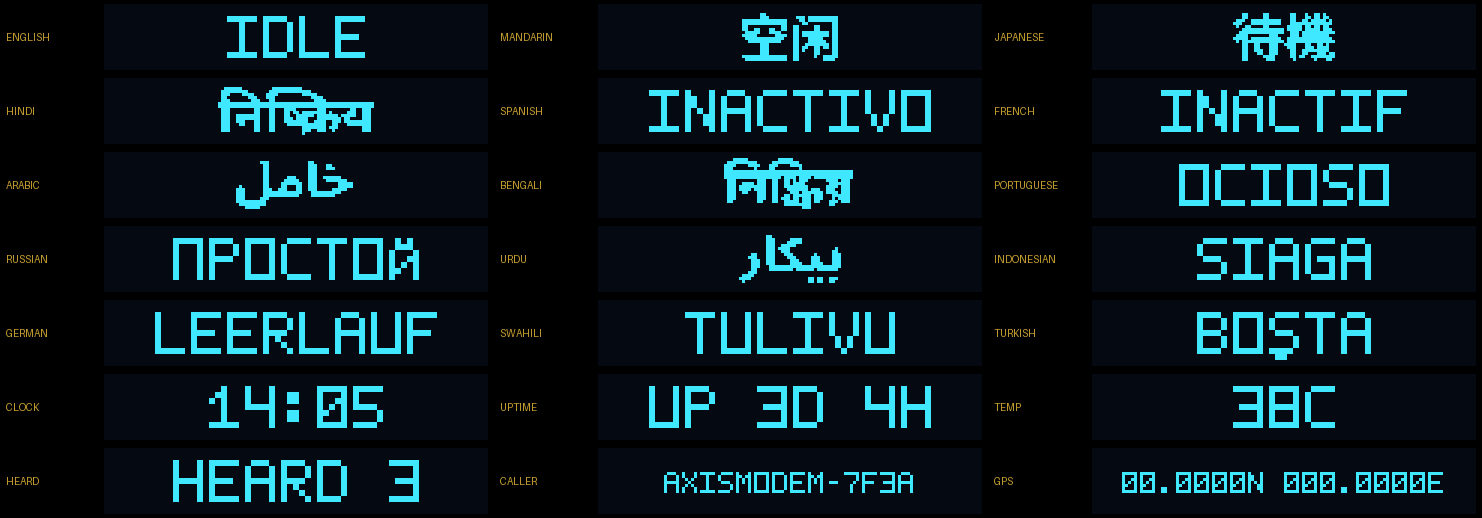
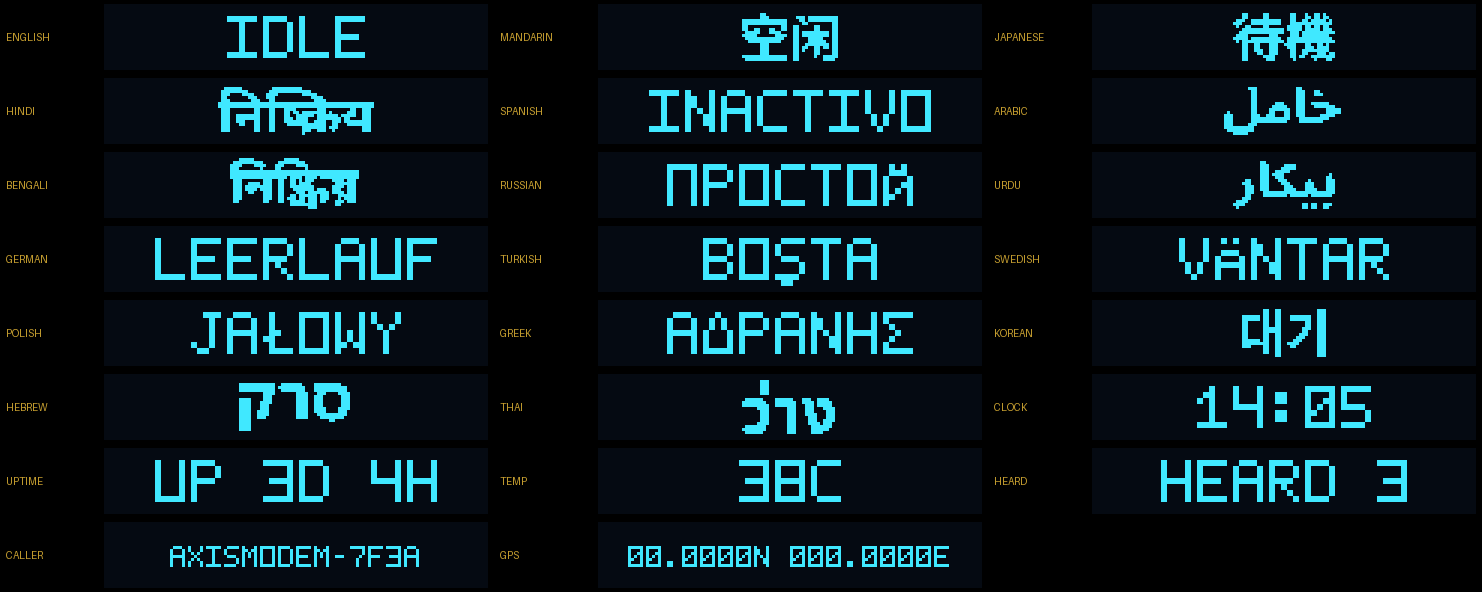
feat(firmware): idle show language set per Rev

diff --git a/firmware/src/idle_words.h b/firmware/src/idle_words.h
@@ -2,7 +2,8 @@
  *
  * 1-bit bitmaps of the complex script idle words, rendered on the PC with Pillow
  * and libraqm (shaped: conjuncts, joining, right to left) from Noto Sans SC,
- * Noto Sans JP, Noto Sans Devanagari, Noto Sans Bengali and Noto Sans Arabic
+ * Noto Sans JP, Noto Sans KR, Noto Sans Devanagari, Noto Sans Bengali, Noto Sans
+ * Arabic, Noto Sans Hebrew and Noto Sans Thai
  * (bold, wght 700). The fonts are under the SIL Open Font License 1.1; only these
  * rendered glyph bitmaps are in the firmware, the font files are not.
  *
@@ -67,6 +68,28 @@ static const uint32_t IDLE_BMP_UR_COLS[34] = {
     0x0CF80, 0x007C0, 0x0CF80, 0x0CE00, 0x00C00, 0x00C00, 0x0CC00, 0x0CFE0,
     0x04FF0, 0x007C0,
 };
+/* Korean, 28 x 16 */
+static const uint32_t IDLE_BMP_KO_COLS[28] = {
+    0x01FFC, 0x01FFC, 0x01C0C, 0x00C0C, 0x00C0C, 0x00C0C, 0x00800, 0x07FFF,
+    0x07FFF, 0x000C0, 0x000C0, 0x0FFFF, 0x0FFFF, 0x00000, 0x00000, 0x00800,
+    0x0180C, 0x01C0C, 0x00E0C, 0x0070C, 0x003CC, 0x001FC, 0x0007C, 0x00000,
+    0x00000, 0x0FFFF, 0x0FFFF, 0x0FFFF,
+};
+/* Hebrew, 37 x 16 */
+static const uint32_t IDLE_BMP_HE_COLS[37] = {
+    0x0FFE7, 0x0FFE7, 0x0FFE7, 0x0FFE7, 0x00007, 0x00007, 0x00E07, 0x00FC7,
+    0x00FFF, 0x007FF, 0x0007F, 0x0000F, 0x00000, 0x00002, 0x00007, 0x00007,
+    0x00007, 0x00007, 0x00007, 0x00FFF, 0x00FFF, 0x00FFE, 0x00FF8, 0x00000,
+    0x00000, 0x003F7, 0x007FF, 0x00FFF, 0x00F0F, 0x00C07, 0x01C07, 0x01C07,
+    0x00C07, 0x00F0F, 0x00FFE, 0x007FE, 0x001F8,
+};
+/* Thai, 31 x 18 */
+static const uint32_t IDLE_BMP_TH_COLS[31] = {
+    0x10180, 0x381C0, 0x381C0, 0x381C0, 0x381C0, 0x3C3C0, 0x3FFDF, 0x1FF9F,
+    0x07F1F, 0x00000, 0x00000, 0x001C0, 0x001C0, 0x001C0, 0x001C0, 0x3FFC0,
+    0x3FFC0, 0x3FF80, 0x00000, 0x00000, 0x000C0, 0x00FC0, 0x07FC0, 0x3FF80,
+    0x3F800, 0x3C1C0, 0x381C0, 0x1E3C0, 0x1FFC0, 0x0FF80, 0x03E00,
+};
 
 static const idle_bmp_t IDLE_BMP_ZH = {32, 16, 0, IDLE_BMP_ZH_COLS};
 static const idle_bmp_t IDLE_BMP_JA = {34, 16, 0, IDLE_BMP_JA_COLS};
@@ -74,5 +97,8 @@ static const idle_bmp_t IDLE_BMP_HI = {52, 16, 0, IDLE_BMP_HI_COLS};
 static const idle_bmp_t IDLE_BMP_BN = {43, 17, 0, IDLE_BMP_BN_COLS};
 static const idle_bmp_t IDLE_BMP_AR = {39, 16, 1, IDLE_BMP_AR_COLS};
 static const idle_bmp_t IDLE_BMP_UR = {34, 16, 1, IDLE_BMP_UR_COLS};
+static const idle_bmp_t IDLE_BMP_KO = {28, 16, 0, IDLE_BMP_KO_COLS};
+static const idle_bmp_t IDLE_BMP_HE = {37, 16, 1, IDLE_BMP_HE_COLS};
+static const idle_bmp_t IDLE_BMP_TH = {31, 18, 0, IDLE_BMP_TH_COLS};
 
 #endif

diff --git a/firmware/src/font5x7.h b/firmware/src/font5x7.h
@@ -111,8 +111,8 @@ static const uint8_t font5x7[(FONT_LAST - FONT_FIRST + 1) * 5] = {
 
 /* A few letters beyond ASCII for the idle show words, drawn here in the same face.
  * Same column format; bit 7 is one row below the baseline (the cedilla). Cyrillic
- * Р О С Т share their shape with Latin P O C T. Text that needs a code point not in
- * either table draws '?'. */
+ * Р О С Т and Greek Α Ρ Ν Η share their shape with Latin P O C T and A P N H.
+ * Text that needs a code point not in either table draws '?'. */
 typedef struct {
     uint16_t cp; /* Unicode code point */
     uint8_t col[5];
@@ -126,6 +126,14 @@ static const font5x7_ext_t font5x7_ext[] = {
     {0x0422, {0x01, 0x01, 0x7F, 0x01, 0x01}}, /* Cyrillic TE */
     {0x0419, {0x7C, 0x23, 0x12, 0x0B, 0x7C}}, /* Cyrillic SHORT I: cup breve over a short I */
     {0x015E, {0x46, 0xC9, 0xC9, 0x49, 0x31}}, /* Turkish S with cedilla */
+    {0x00C4, {0x78, 0x15, 0x14, 0x15, 0x78}}, /* A with diaeresis (Swedish): dots over a short A */
+    {0x0141, {0x10, 0x7F, 0x48, 0x40, 0x40}}, /* Polish L with stroke */
+    {0x0391, {0x7E, 0x09, 0x09, 0x09, 0x7E}}, /* Greek ALPHA (as A) */
+    {0x0394, {0x78, 0x46, 0x41, 0x46, 0x78}}, /* Greek DELTA */
+    {0x03A1, {0x7F, 0x09, 0x09, 0x09, 0x06}}, /* Greek RHO (as P) */
+    {0x039D, {0x7F, 0x06, 0x08, 0x30, 0x7F}}, /* Greek NU (as N) */
+    {0x0397, {0x7F, 0x08, 0x08, 0x08, 0x7F}}, /* Greek ETA (as H) */
+    {0x03A3, {0x63, 0x55, 0x49, 0x41, 0x41}}, /* Greek SIGMA */
 };
 #define FONT_EXT_N ((int)(sizeof(font5x7_ext) / sizeof(font5x7_ext[0])))
 

diff --git a/firmware/src/idle_show.c b/firmware/src/idle_show.c
@@ -13,7 +13,7 @@
  * neighbour, so no item shows twice in a row. The transition is hash(n) % 12.
  *
  * Band. Items are drawn into an 18 row mask, rows 0..17 = y 12..29: 2x text at y 14..27
- * (Ş's cedilla to y 29), 1x text at y 18..24, the script bitmaps (16 or 17 rows) centred
+ * (Ş's cedilla to y 29), 1x text at y 18..24, the script bitmaps (16 to 18 rows) centred
  * on y 21. Each column of the mask is a uint32_t, bit 0 = y 12. */
 #include <stdio.h>
 #include <string.h>
@@ -54,16 +54,18 @@ static const item_def_t ITEMS[IS_ITEMS] = {
     {"JAPANESE", 1, NULL, &IDLE_BMP_JA},
     {"HINDI", 1, NULL, &IDLE_BMP_HI},
     {"SPANISH", 1, "INACTIVO", NULL},
-    {"FRENCH", 1, "INACTIF", NULL},
     {"ARABIC", 1, NULL, &IDLE_BMP_AR},
     {"BENGALI", 1, NULL, &IDLE_BMP_BN},
-    {"PORTUGUESE", 1, "OCIOSO", NULL},
     {"RUSSIAN", 1, "\xD0\x9F\xD0\xA0\xD0\x9E\xD0\xA1\xD0\xA2\xD0\x9E\xD0\x99", NULL}, /* ПРОСТОЙ */
     {"URDU", 1, NULL, &IDLE_BMP_UR},
-    {"INDONESIAN", 1, "SIAGA", NULL},
     {"GERMAN", 1, "LEERLAUF", NULL},
-    {"SWAHILI", 1, "TULIVU", NULL},
     {"TURKISH", 1, "BO\xC5\x9E" "TA", NULL}, /* BOŞTA */
+    {"SWEDISH", 1, "V\xC3\x84" "NTAR", NULL}, /* VÄNTAR */
+    {"POLISH", 1, "JA\xC5\x81" "OWY", NULL}, /* JAŁOWY */
+    {"GREEK", 1, "\xCE\x91\xCE\x94\xCE\xA1\xCE\x91\xCE\x9D\xCE\x97\xCE\xA3", NULL}, /* ΑΔΡΑΝΗΣ */
+    {"KOREAN", 1, NULL, &IDLE_BMP_KO},
+    {"HEBREW", 1, NULL, &IDLE_BMP_HE},
+    {"THAI", 1, NULL, &IDLE_BMP_TH},
     {"CLOCK", 1, NULL, NULL},
     {"UPTIME", 1, NULL, NULL},
     {"TEMP", 1, NULL, NULL},

diff --git a/tools/gen_idle_words.py b/tools/gen_idle_words.py
@@ -36,6 +36,9 @@ WORDS = [
      "NotoSansBengali[wdth,wght].ttf", "bn", "ltr", 17),
     ("AR", "Arabic", "خامل", "NotoSansArabic[wdth,wght].ttf", "ar", "rtl", 16),
     ("UR", "Urdu", "بیکار", "NotoSansArabic[wdth,wght].ttf", "ur", "rtl", 16),
+    ("KO", "Korean", "대기", "NotoSansKR[wght].ttf", "ko", "ltr", 16),
+    ("HE", "Hebrew", "סרק", "NotoSansHebrew[wdth,wght].ttf", "he", "rtl", 16),
+    ("TH", "Thai", "ว่าง", "NotoSansThai[wdth,wght].ttf", "th", "ltr", 18),  # the full band: the tone mark needs a clear row
 ]
 
 
@@ -88,7 +91,8 @@ def main(argv):
         " *",
         " * 1-bit bitmaps of the complex script idle words, rendered on the PC with Pillow",
         " * and libraqm (shaped: conjuncts, joining, right to left) from Noto Sans SC,",
-        " * Noto Sans JP, Noto Sans Devanagari, Noto Sans Bengali and Noto Sans Arabic",
+        " * Noto Sans JP, Noto Sans KR, Noto Sans Devanagari, Noto Sans Bengali, Noto Sans",
+        " * Arabic, Noto Sans Hebrew and Noto Sans Thai",
         " * (bold, wght 700). The fonts are under the SIL Open Font License 1.1; only these",
         " * rendered glyph bitmaps are in the firmware, the font files are not.",
         " *",

diff --git a/tools/panel_check.c b/tools/panel_check.c
@@ -435,8 +435,8 @@ static void hexline(FILE *f, const char *label, const uint8_t *fb)
 /* The preview script: twelve loops, one per transition, then the scroller. */
 static void idle_dump(const char *dir)
 {
-    static const int SEQ[] = {IS_IDLE, IS_ZH, IS_ES, IS_CLOCK, IS_HI, IS_RU, IS_TEMP, IS_AR, IS_DE, IS_JA,
-                              IS_UPTIME, IS_TR, IS_BN, IS_UR, IS_FR, IS_HEARD};
+    static const int SEQ[] = {IS_IDLE, IS_ZH, IS_ES, IS_CLOCK, IS_HI, IS_RU, IS_TEMP, IS_AR, IS_SV, IS_KO,
+                              IS_UPTIME, IS_EL, IS_TH, IS_HE, IS_PL, IS_JA};
     enum { NSLOT = 17 };
     static idle_slot_t sc[NSLOT];
     for (int i = 0; i < 12; i++) {

diff --git a/firmware/src/idle_show.h b/firmware/src/idle_show.h
@@ -9,7 +9,8 @@
 
 /* Items. Weights: IDLE 3, every other 1 (info items only while available). */
 enum {
-    IS_IDLE, IS_ZH, IS_JA, IS_HI, IS_ES, IS_FR, IS_AR, IS_BN, IS_PT, IS_RU, IS_UR, IS_ID, IS_DE, IS_SW, IS_TR,
+    IS_IDLE, IS_ZH, IS_JA, IS_HI, IS_ES, IS_AR, IS_BN, IS_RU, IS_UR, IS_DE, IS_TR,
+    IS_SV, IS_PL, IS_EL, IS_KO, IS_HE, IS_TH,
     IS_CLOCK, IS_UPTIME, IS_TEMP, IS_HEARD, IS_CALLER, IS_GPS,
     IS_ITEMS,
     IS_BLANK = IS_ITEMS /* nothing: the band after the scroller has gone */

diff --git a/THIRD_PARTY.md b/THIRD_PARTY.md
@@ -33,7 +33,7 @@ core and ffi have no dependencies outside the workspace. The only third-party cr
 
 | Font | License | Used in |
 |------|---------|---------|
-| Noto Sans SC, Noto Sans JP, Noto Sans Devanagari, Noto Sans Bengali, Noto Sans Arabic | SIL Open Font License 1.1 | rendered glyph bitmaps only: the idle show words in `firmware/src/idle_words.h`, made on the PC by `tools/gen_idle_words.py`; the font files stay in `vendor/fonts/` (git-ignored, not in the repo or the firmware) |
+| Noto Sans SC, Noto Sans JP, Noto Sans KR, Noto Sans Devanagari, Noto Sans Bengali, Noto Sans Arabic, Noto Sans Hebrew, Noto Sans Thai | SIL Open Font License 1.1 | rendered glyph bitmaps only: the idle show words in `firmware/src/idle_words.h`, made on the PC by `tools/gen_idle_words.py`; the font files stay in `vendor/fonts/` (git-ignored, not in the repo or the firmware) |
 
 ## PC tools (not shipped)
 
